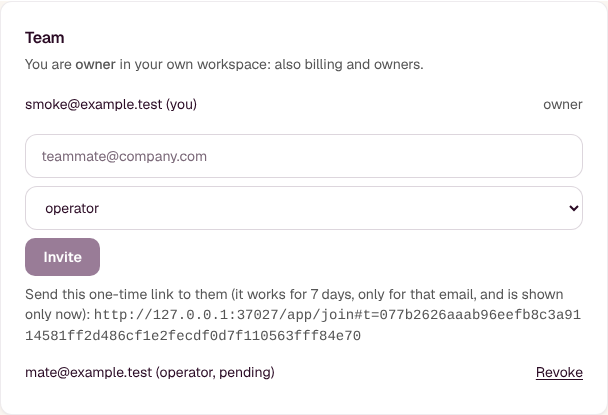
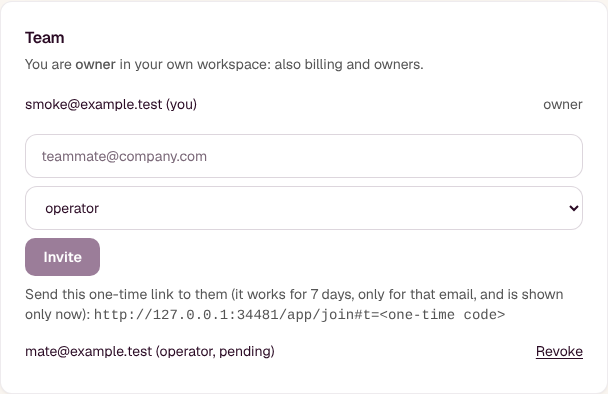
Workspaces 3/3: council fixes (inviter authority, owner-invite replace, only workspace, invite through sign-in)
Council review of #437 found:
- A pending link outlived its inviter's authority: a removed admin's, or a
  demoted owner's, invitation still granted its role. Accept now re-reads the
  inviter's role under the workspace lock and answers invalid_invite unless the
  inviter may still grant the invited role.
- Re-inviting an email revoked its pending invitation without the check that
  revoking it directly takes, so an admin could cancel an owner invitation.
  Replacing now requires mayManage over each pending invitation's role.
- A founder could be removed from, or leave, their only workspace and then
  resolve to nothing on every request. removeMember and leave refuse with
  only_workspace (409) when it is the member's last membership.
- Leaving left the account's sessions pointing at the left workspace, so the
  next request answered 401. leave now clears those pointers in the same
  transaction. A removed member's sessions are untouched (refused once).
- An invitee who opened the link signed out lost it at sign-in or sign-up.
  Both pages keep the token in sessionStorage and return to /app/join.
- Accept reports success even if the follow-up switch fails, since the link is
  already used.
- The Team screenshot showed a working token; the UI check masks it before
  capturing.

Tests: four workspace-members cases on both engines, which fail with the fix
reverted (8 of 18). team.ui.mjs now opens the link signed out, follows Create
[…]

diff --git a/web/lib/workspace-members.ts b/web/lib/workspace-members.ts
@@ -31,13 +31,13 @@ const nowS = () => Math.floor(Date.now() / 1000)
 const sha256 = (s: string) => createHash('sha256').update(s).digest('hex')
 export const isInviteToken = (t: unknown): t is string => typeof t === 'string' && /^[a-f0-9]{64}$/.test(t)
 
-type MemberErrorCode = 'forbidden' | 'not_found' | 'last_owner' | 'already_member' | 'too_many_invites' | 'invalid_invite' | 'wrong_account'
+type MemberErrorCode = 'forbidden' | 'not_found' | 'last_owner' | 'only_workspace' | 'already_member' | 'too_many_invites' | 'invalid_invite' | 'wrong_account'
 export class MemberError extends Error {
   readonly code: MemberErrorCode
   constructor(code: MemberErrorCode) { super(code); this.code = code }
 }
 export const MEMBER_ERROR_STATUS: Record<MemberError['code'], number> = {
-  forbidden: 403, not_found: 404, last_owner: 409, already_member: 409, too_many_invites: 429, invalid_invite: 410, wrong_account: 403,
+  forbidden: 403, not_found: 404, last_owner: 409, only_workspace: 409, already_member: 409, too_many_invites: 429, invalid_invite: 410, wrong_account: 403,
 }
 
 // The acting member: who, in which workspace, as what (from getSessionUser, never from the request).
@@ -63,6 +63,12 @@ function* actingRole(t: Tx, by: Acting): TxBody<Role> {
 function* roleOf(t: Tx, tenantId: string, memberId: string): TxBody<Role | null> {
   const r = (yield* t.get<{ role: string }>('SELECT role FROM memberships WHERE tenant_id = ? AND member_id = ?', [tenantId, memberId]))?.role
   return isRole(r) ? r : null
+}
+
+// A member is never left with no workspace at all: getSessionUser would then find nothing on every request, and the
+// account could not sign in to anything (its personal workspace is not recreated once it exists).
+function* lastWorkspace(t: Tx, memberId: string): TxBody<boolean> {
+  return Number((yield* t.get<{ n: number }>('SELECT count(*) AS n FROM memberships WHERE member_id = ?', [memberId]))?.n ?? 0) <= 1
 }
 
 function* owners(t: Tx, tenantId: string): TxBody<number> {
@@ -106,6 +112,7 @@ export async function removeMember(db: Db, by: Acting, memberId: string): Promis
     if (!current) throw new MemberError('not_found')
     if (!mayManage(me, current, null)) throw new MemberError('forbidden')
     if (current === 'owner' && (yield* owners(t, by.tenantId)) <= 1) throw new MemberError('last_owner')
+    if (yield* lastWorkspace(t, memberId)) throw new MemberError('only_workspace')
     yield* t.run('DELETE FROM memberships WHERE tenant_id = ? AND member_id = ?', [by.tenantId, memberId])
   })
 }
@@ -116,7 +123,12 @@ export async function leave(db: Db, by: Acting): Promise<void> {
     const current = yield* roleOf(t, by.tenantId, by.actorId)
     if (!current) throw new MemberError('not_found')
     if (current === 'owner' && (yield* owners(t, by.tenantId)) <= 1) throw new MemberError('last_owner')
+    if (yield* lastWorkspace(t, by.actorId)) throw new MemberError('only_workspace')
     yield* t.run('DELETE FROM memberships WHERE tenant_id = ? AND member_id = ?', [by.tenantId, by.actorId])
+    // the account's own sessions stop pointing at the workspace it left, so its next request acts in another one. A
+    // removed member's sessions are not touched: their next request is refused once (getSessionUser), so a request meant
+    // for the old workspace never lands in a different one.
+    yield* t.run('UPDATE sessions SET active_tenant_id = NULL WHERE user_id = ? AND active_tenant_id = ?', [by.actorId, by.tenantId])
   })
 }
 
@@ -126,8 +138,12 @@ export async function createInvitation(db: Db, by: Acting, email: string, role: 
   if (!mayManage(by.role, null, role)) throw new MemberError('forbidden') // fast refusal; re-checked under the lock
   const token = randomBytes(32).toString('hex'), id = randomBytes(12).toString('hex')
   await db.tx(function* (t) {
-    if (!mayManage(yield* actingRole(t, by), null, role)) throw new MemberError('forbidden')
+    const me = yield* actingRole(t, by)
+    if (!mayManage(me, null, role)) throw new MemberError('forbidden')
     if (yield* t.get('SELECT 1 AS x FROM memberships m JOIN users u ON u.id = m.member_id WHERE m.tenant_id = ? AND lower(u.email) = ?', [by.tenantId, email])) throw new MemberError('already_member')
+    // replacing a pending invitation revokes it, so it takes what revoking it would (an owner invitation: 'owners')
+    for (const p of yield* t.all<{ role: string }>('SELECT role FROM invitations WHERE tenant_id = ? AND email = ? AND accepted_at IS NULL AND revoked_at IS NULL', [by.tenantId, email]))
+      if (!isRole(p.role) || !mayManage(me, null, p.role)) throw new MemberError('forbidden')
     yield* t.run('UPDATE invitations SET revoked_at = ? WHERE tenant_id = ? AND email = ? AND accepted_at IS NULL AND revoked_at IS NULL', [now, by.tenantId, email])
     const pending = Number((yield* t.get<{ n: number }>('SELECT count(*) AS n FROM invitations WHERE tenant_id = ? AND accepted_at IS NULL AND revoked_at IS NULL AND expires_at > ?', [by.tenantId, now]))?.n ?? 0)
     if (pending >= MAX_PENDING_INVITES) throw new MemberError('too_many_invites')
@@ -156,8 +172,9 @@ export async function revokeInvitation(db: Db, by: Acting, id: string, now = now
 
 // Accepting: the signed-in account must hold the link (the token) and be the account it was sent to (its email). The
 // token is used up in the same transaction that adds the membership, so a replay, an expired or a revoked link adds
-// nothing. Unknown, used, revoked and expired links all answer the same 'invalid_invite'. An account already in the
-// workspace keeps its role.
+// nothing. Unknown, used, revoked and expired links all answer the same 'invalid_invite', and so does a link whose
+// inviter can no longer grant its role (removed, or demoted below it): a link carries its inviter's authority, so it
+// ends with it. An account already in the workspace keeps its role.
 export async function acceptInvitation(db: Db, actor: { actorId: string; email: string }, token: string, now = nowS()): Promise<{ tenantId: string; role: Role }> {
   if (!isInviteToken(token)) throw new MemberError('invalid_invite')
   return db.tx(function* (t) {
@@ -168,6 +185,8 @@ export async function acceptInvitation(db: Db, actor: { actorId: string; email: 
     // the same lock every member and invitation change takes first, so a revoke and this accept are serialized; the
     // guarded update below then sees the outcome of whichever ran first
     yield* lockWorkspace(t, inv.tenant_id)
+    const inviter = yield* roleOf(t, inv.tenant_id, inv.invited_by)
+    if (!inviter || !mayManage(inviter, null, inv.role)) throw new MemberError('invalid_invite')
     const used = yield* t.run('UPDATE invitations SET accepted_at = ?, accepted_by = ? WHERE id = ? AND accepted_at IS NULL AND revoked_at IS NULL AND expires_at > ?', [now, actor.actorId, inv.id, now])
     if (used.changes !== 1) throw new MemberError('invalid_invite')
     yield* t.run('INSERT INTO memberships (tenant_id, member_id, role, created_at, added_by) VALUES (?, ?, ?, ?, ?) ON CONFLICT (tenant_id, member_id) DO NOTHING',

diff --git a/web/test/workspace-members.test.ts b/web/test/workspace-members.test.ts
@@ -88,6 +88,9 @@ bothEngines('roles and removal: admins never touch owners, the last owner cannot
   await removeMember(db, act('A', 'D', 'owner'), 'O')
   assert.equal(await roleIn(db, 'A', 'O'), null)
   assert.equal(await roleIn(db, 'B2', 'O'), 'viewer', 'only this workspace')
+  // A's own workspace is its only one, so it may not leave it; with another membership it may
+  await assert.rejects(leave(db, act('A', 'A', 'admin')), code('only_workspace'))
+  await add(db, 'B2', 'A', 'viewer')
   await leave(db, act('A', 'A', 'admin'))
   assert.deepEqual((await listMembers(db, 'A')).map(m => [m.member_id, m.role]), [['D', 'owner']])
 })
@@ -180,3 +183,46 @@ bothEngines('revoking and accepting the same link at once: exactly one wins', as
     }
   }
 }, { pgMax: 4 })
+
+bothEngines('a link carries its inviter\'s authority: once the inviter is removed or demoted below its role, it adds nothing', async ({ db }) => {
+  await users(db, 'A', 'D', 'E', 'X', 'Y')
+  await add(db, 'A', 'D', 'admin'); await add(db, 'A', 'E', 'owner')
+  const byAdmin = await createInvitation(db, act('A', 'D', 'admin'), 'x@example.test', 'admin')
+  const byOwner = await createInvitation(db, act('A', 'E', 'owner'), 'y@example.test', 'owner')
+  await removeMember(db, OWNER_A, 'D')
+  await changeRole(db, OWNER_A, 'E', 'admin')
+  await assert.rejects(acceptInvitation(db, me('X'), byAdmin.token), code('invalid_invite'), 'inviter removed')
+  await assert.rejects(acceptInvitation(db, me('Y'), byOwner.token), code('invalid_invite'), 'inviter demoted below owner')
+  assert.equal(await roleIn(db, 'A', 'X'), null)
+  assert.equal(await roleIn(db, 'A', 'Y'), null)
+  // a demoted inviter who can still grant the role: the link works
+  const stillOk = await createInvitation(db, act('A', 'E', 'admin'), 'x@example.test', 'operator')
+  assert.deepEqual(await acceptInvitation(db, me('X'), stillOk.token), { tenantId: 'A', role: 'operator' })
+})
+
+bothEngines('replacing a pending invitation takes what revoking it would: an admin cannot replace an owner invitation', async ({ db }) => {
+  await users(db, 'A', 'D', 'Y')
+  await add(db, 'A', 'D', 'admin')
+  const owner = await createInvitation(db, OWNER_A, 'y@example.test', 'owner')
+  await assert.rejects(createInvitation(db, act('A', 'D', 'admin'), 'y@example.test', 'viewer'), code('forbidden'))
+  assert.deepEqual((await listInvitations(db, 'A')).map(i => [i.email, i.role]), [['y@example.test', 'owner']])
+  assert.deepEqual(await acceptInvitation(db, me('Y'), owner.token), { tenantId: 'A', role: 'owner' })
+})
+
+bothEngines('no account is left without a workspace; leaving points the account\'s sessions elsewhere', async ({ db }) => {
+  await users(db, 'A', 'B')
+  await add(db, 'A', 'B', 'owner')
+  // B's only other workspace is its own; with that gone, A is its only one
+  await db.run("DELETE FROM memberships WHERE tenant_id = 'B' AND member_id = 'B'")
+  await assert.rejects(removeMember(db, OWNER_A, 'B'), code('only_workspace'))
+  await assert.rejects(leave(db, act('A', 'B', 'owner')), code('only_workspace'))
+  assert.equal(await roleIn(db, 'A', 'B'), 'owner')
+  // with its own workspace back, B may leave A, and its sessions stop pointing at A
+  await add(db, 'B', 'B', 'owner')
+  const t = await createSession('B', db)
+  await switchWorkspace(db, hashToken(t), 'B', 'A')
+  assert.equal((await getSessionUser(t, db))?.tenantId, 'A')
+  await leave(db, act('A', 'B', 'owner'))
+  assert.equal((await db.get<{ a: string | null }>('SELECT active_tenant_id AS a FROM sessions WHERE id = ?', [hashToken(t)]))?.a, null)
+  assert.equal((await getSessionUser(t, db))?.tenantId, 'B', 'the next request acts in B, not refused')
+})

diff --git a/web/app/app/settings/team-panel.tsx b/web/app/app/settings/team-panel.tsx
@@ -8,7 +8,7 @@ interface Invite { id: string; email: string; role: Role; expires_at: number }
 
 const ROLES: Role[] = ['viewer', 'operator', 'admin', 'owner']
 const ROLE_HELP: Record<Role, string> = { viewer: 'reads and exports', operator: 'also runs scans and sends', admin: 'also keys, connectors and members', owner: 'also billing and owners' }
-const ERRORS: Record<string, string> = { last_owner: 'A workspace needs at least one owner.', forbidden: 'Your role cannot do that.', already_member: 'Already a member.', too_many_invites: 'Too many pending invitations.', not_found: 'Not found.' }
+const ERRORS: Record<string, string> = { last_owner: 'A workspace needs at least one owner.', only_workspace: 'That is their only workspace, so it cannot be left or removed.', forbidden: 'Your role cannot do that.', already_member: 'Already a member.', too_many_invites: 'Too many pending invitations.', not_found: 'Not found.' }
 const rank = (r: Role) => ROLES.indexOf(r)
 
 type WorkspaceInfo = { current: { tenant_id: string; role: Role }; you: { id: string }; workspaces: Workspace[] }

diff --git a/web/lib/invite-return.ts b/web/lib/invite-return.ts
@@ -1,0 +1,18 @@
+// An invitation link (/app/join#t=...) opened while signed out is redirected to /sign-in, and the browser keeps the
+// #fragment across that redirect. The sign-in and sign-up pages keep the token here (this tab only, never sent to a
+// server) and return to /app/join with it once the account is signed in, instead of to /app, where it would be lost.
+const KEY = 'dazl_invite'
+const TOKEN = /^[a-f0-9]{64}$/
+
+export function keepInvite(): void {
+  const t = new URLSearchParams(window.location.hash.slice(1)).get('t')
+  if (!t || !TOKEN.test(t)) return
+  try { sessionStorage.setItem(KEY, t) } catch { /* storage blocked: the invitee opens the link again */ }
+  history.replaceState(null, '', window.location.pathname + window.location.search)
+}
+
+export function afterSignIn(): string {
+  let t: string | null = null
+  try { t = sessionStorage.getItem(KEY); sessionStorage.removeItem(KEY) } catch { /* storage blocked */ }
+  return t && TOKEN.test(t) ? `/app/join#t=${t}` : '/app'
+}

diff --git a/web/app/sign-in/page.tsx b/web/app/sign-in/page.tsx
@@ -1,12 +1,14 @@
 "use client"
 import { useEffect, useState } from 'react'
 import { useRouter } from 'next/navigation'
+import { afterSignIn, keepInvite } from '@/lib/invite-return'
 
 export default function SignIn() {
   const router = useRouter()
   const [loading, setLoading] = useState(false)
   const [error, setError] = useState('')
   useEffect(() => {
+    keepInvite()
     const e = new URLSearchParams(window.location.search).get('error')
     const m: Record<string, string> = {
       google_failed: 'Google sign-in did not work. Try again.', google_unavailable: 'Google sign-in is not available right now.',
@@ -27,7 +29,7 @@ export default function SignIn() {
     })
     const data = await res.json()
     if (!res.ok) { setError(data.error || 'Sign in failed'); setLoading(false); return }
-    router.push('/app')
+    router.push(afterSignIn())
   }
 
   return (

diff --git a/web/app/sign-up/page.tsx b/web/app/sign-up/page.tsx
@@ -1,11 +1,13 @@
 "use client"
-import { useState } from 'react'
+import { useEffect, useState } from 'react'
 import { useRouter } from 'next/navigation'
+import { afterSignIn, keepInvite } from '@/lib/invite-return'
 
 export default function SignUp() {
   const router = useRouter()
   const [loading, setLoading] = useState(false)
   const [error, setError] = useState('')
+  useEffect(() => { keepInvite() }, [])
 
   async function handleSubmit(e: React.FormEvent<HTMLFormElement>) {
     e.preventDefault()
@@ -23,7 +25,7 @@ export default function SignUp() {
     })
     const data = await res.json()
     if (!res.ok) { setError(data.error || 'Signup failed'); setLoading(false); return }
-    router.push('/app')
+    router.push(afterSignIn())
   }
 
   return (

diff --git a/web/app/api/workspace/invitations/accept/route.ts b/web/app/api/workspace/invitations/accept/route.ts
@@ -20,7 +20,9 @@ export async function POST(req: NextRequest) {
     const db = await getDb()
     const m = await acceptInvitation(db, user, body?.token)
     const token = (await cookies()).get('dazl_session')?.value
-    if (token) await switchWorkspace(db, hashToken(token), user.actorId, m.tenantId)
+    // the invitation is already used up and the membership added: a failed switch (the session ended meanwhile) must not
+    // report the accept as failed, so the next sign-in simply offers the workspace
+    if (token) await switchWorkspace(db, hashToken(token), user.actorId, m.tenantId).catch(() => {})
     return NextResponse.json({ ok: true, tenant_id: m.tenantId, role: m.role })
   } catch (e) { return memberFail(e) }
 }

diff --git a/docs/design/workspaces.md b/docs/design/workspaces.md
@@ -63,7 +63,10 @@ One table, `ACTIONS` in `lib/workspaces.ts`; routes call `can(role, action)`, ne
 | owners    | owner       | grant/remove owner, delete the workspace |
 
 Member-management rules (increment 3): admins cannot touch owners; only owners grant owner; the last owner cannot be
-removed or demoted, nor leave, in one transaction that counts owners (so two concurrent demotions cannot both pass).
+removed or demoted, nor leave, in one transaction that counts owners (so two concurrent demotions cannot both pass). No
+account is removed from, or leaves, its only workspace (it would have nothing to sign in to). A link carries its
+inviter's authority: once the inviter is removed, or demoted below the invited role, it adds nothing; and replacing a
+pending invitation takes what revoking it would.
 
 ## Migration path
 
@@ -93,7 +96,8 @@ removed or demoted, nor leave, in one transaction that counts owners (so two con
    inviting the same email again revokes the earlier link. Accepting needs the signed-in account whose email it was
    sent to, and uses the token up in the same transaction that adds the membership (an unknown, used, revoked or
    expired link all answer 410). dazl sends no email yet: the inviter gets the link once, with the token in the
-   `#fragment` so it never reaches a server log. Every member change locks the workspace row first, so two owners
+   `#fragment` so it never reaches a server log. A link opened while signed out survives sign-in and sign-up (kept in the
+   tab's `sessionStorage`, not a cookie) and is accepted after them; Google sign-in does not carry it yet. Every member change locks the workspace row first, so two owners
    demoting each other at once cannot both pass the last-owner check (tested on Postgres). Switching writes
    `active_tenant_id` only for a workspace the account belongs to, and only on its own session.
    Known limit until #357: password-account emails are unverified, so the token is the real proof; after #357,
